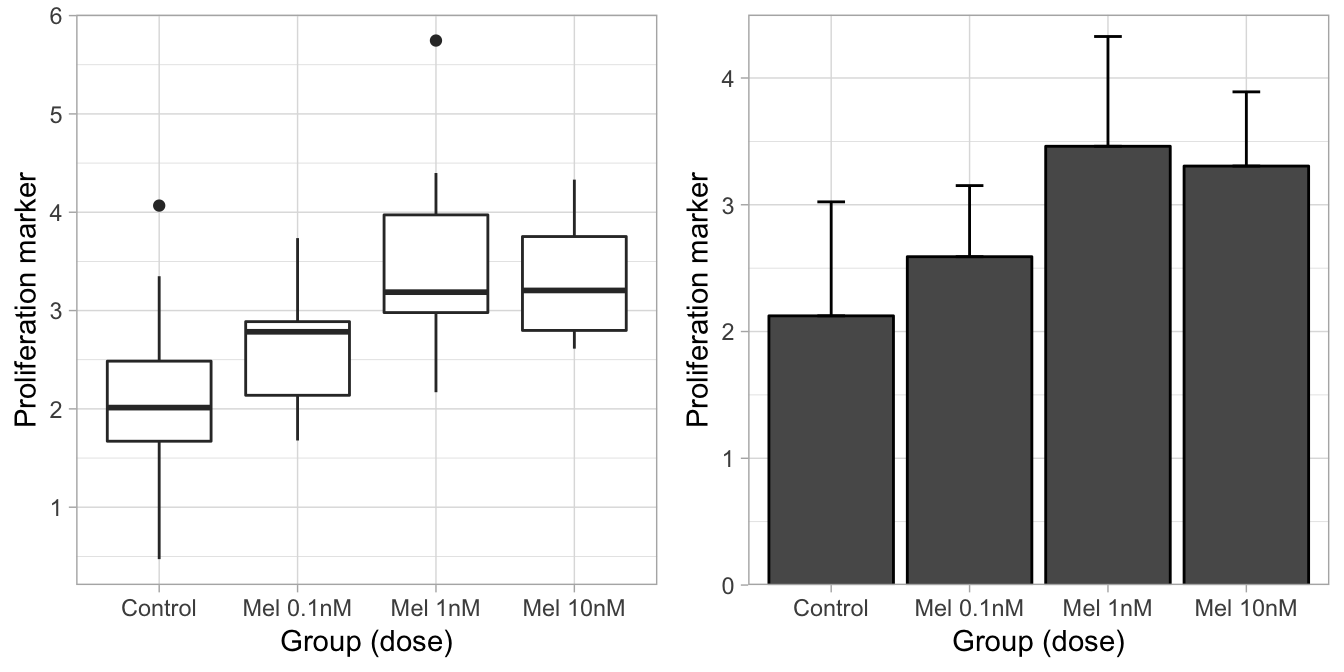
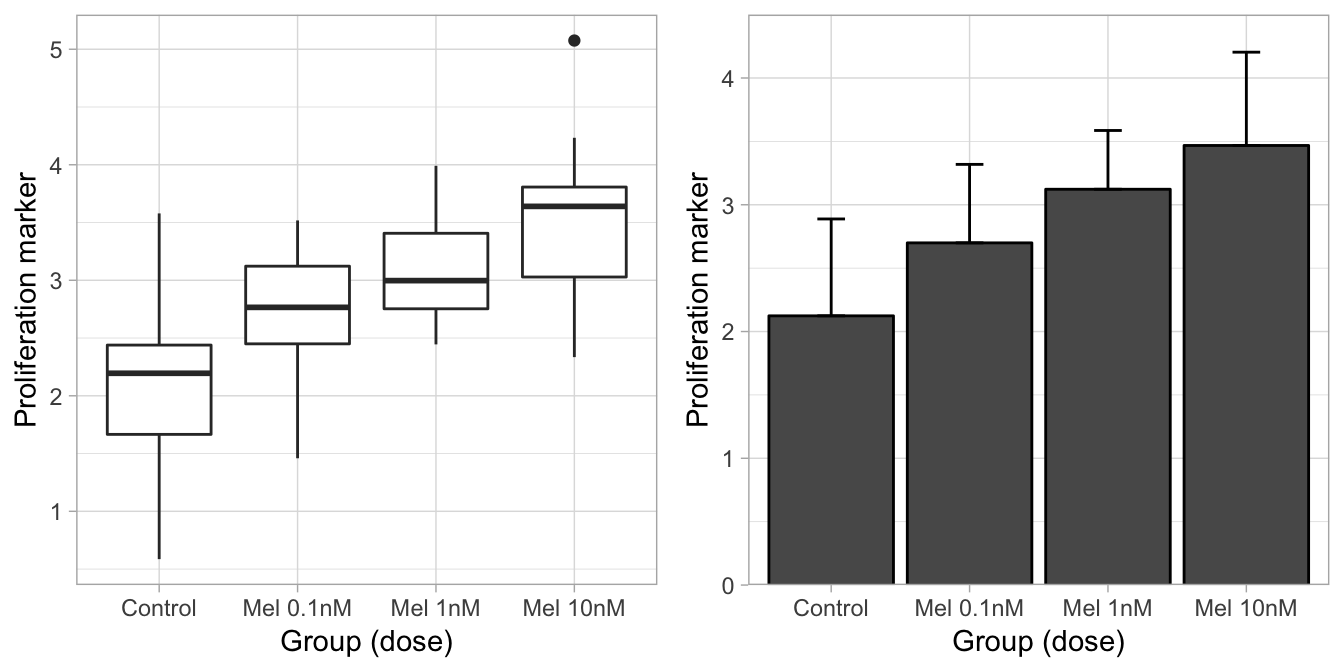
plot

diff --git a/2018/10/16/quick-plots/index.html b/2018/10/16/quick-plots/index.html
@@ -99,8 +99,8 @@ raw &lt;- data.frame(
 str(df)</code></pre>
 <pre><code>## &#39;data.frame&#39;:    60 obs. of  2 variables:
 ##  $ Group        : Factor w/ 4 levels &quot;Control&quot;,&quot;Mel 0.1nM&quot;,..: 1 1 1 1 1 1 1 1 1 1 ...
-##  $ Proliferation: num  0.472 2.013 1.831 1.833 2.375 ...</code></pre>
-<p>Ok, we have a proliferation vector measured as fluorescence of some surface protein marker, separated into 4 groups: <code>Control</code>, <code>Melatonin 0.1 nM</code>, <code>Melatonin 1 nM</code> and, <code>Melatonin 10 nM</code>.</p>
+##  $ Proliferation: num  3.38 2.15 1.41 1.86 2.22 ...</code></pre>
+<p>Ok, we have a proliferation vector measured as fluorescence of some surface protein marker, separated into 4 groups: <code>Control</code>, <code>Melatonin 0.1 nM</code>, <code>Melatonin 1 nM</code>, and <code>Melatonin 10 nM</code>.</p>
 </div>
 <div id="plot" class="section level1">
 <h1>Plot</h1>
